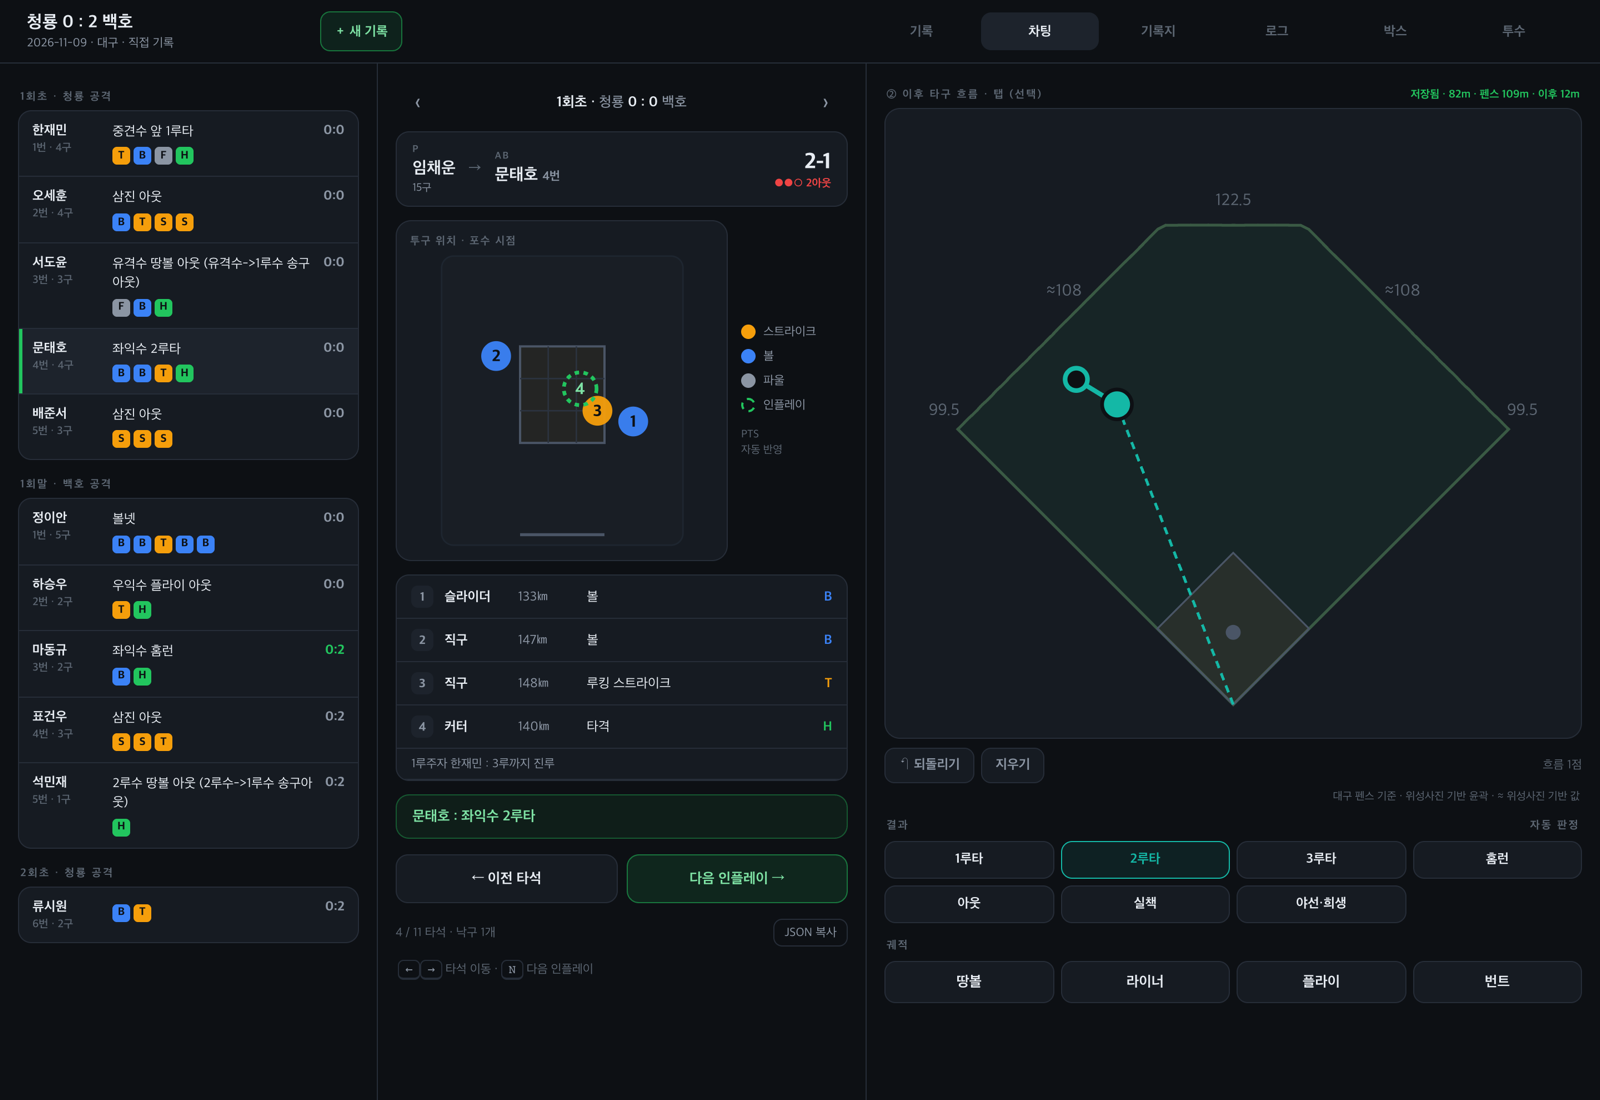
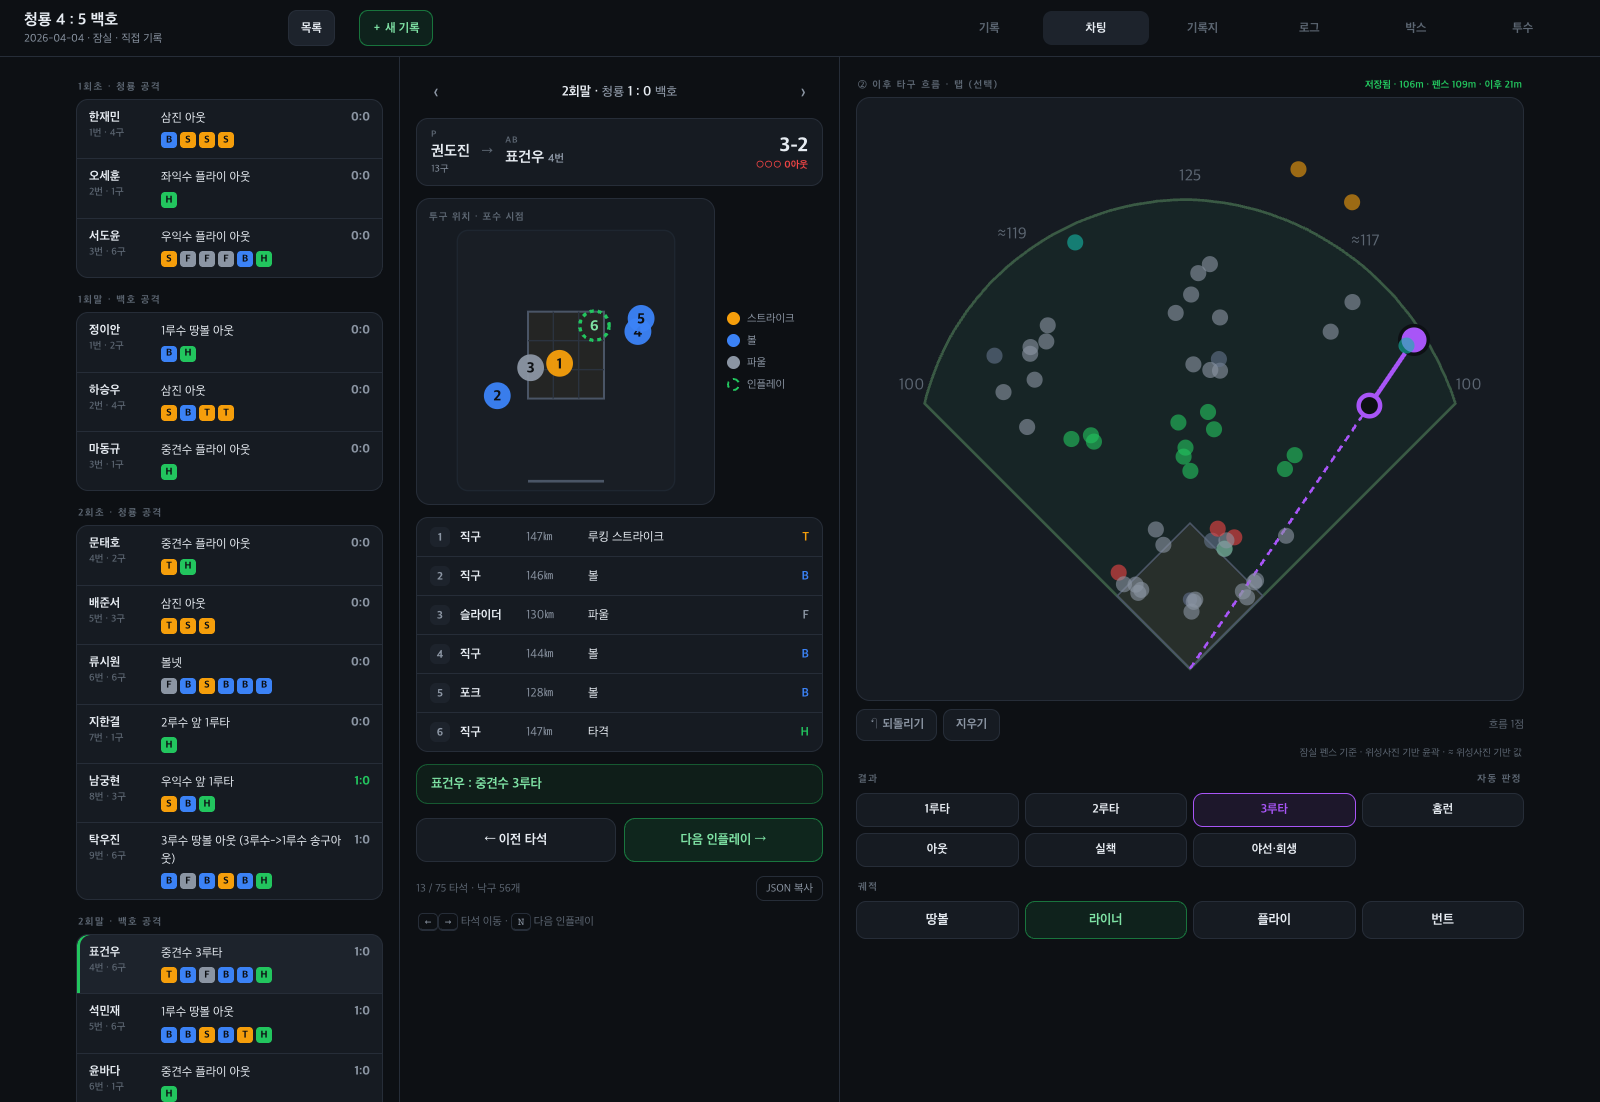
docs: retake README screenshots, add park setup and game list
The old shots predate the game list, backup buttons and custom parks,
and the chart still showed the dropped "PTS" label. All are retaken from
the bundled made-up sample game (청룡 vs 백호) on the production build;
two new phone shots show a custom park being entered with a 10-batter
order, and the game list. The phone viewport is grown to the page height
so the tab bar sits at the bottom instead of across the middle.

Verified: looked at each new image; no page errors while capturing.

Claude-Session: https://claude.ai/code/session_011tZbWDL8ovxz8DjMaMa5KY

diff --git a/README.md b/README.md
@@ -21,6 +21,10 @@
 | :-: | :-: |
 | <img src="docs/screenshots/sheet.png" width="260"> | <img src="docs/screenshots/box.png" width="260"> |
 
+| 경기 설정 · 직접 입력한 구장 | 경기 목록 |
+| :-: | :-: |
+| <img src="docs/screenshots/setup.png" width="260"> | <img src="docs/screenshots/games.png" width="260"> |
+
 스크린샷은 가상의 팀과 선수로 직접 기록한 경기다.
 
 ## 기능
